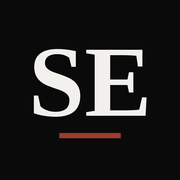
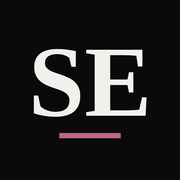
Swap accent color from oxblood to dusty rose (#c1667f)
Two-line change: the whole site already sourced its accent from a
single --accent/--accent-soft CSS variable pair, so every use of it —
nav index numbers, hover states, active tab pills, the cursor-
reactive glow behind the hero nav, the Request Password button
border — picks up the new color automatically.

Also updated the two places the same accent was baked into static
image assets rather than CSS: favicon.svg's underline rule, and the
favicon.ico/apple-touch-icon.png raster fallbacks (regenerated from
the same source script with the new color), so the browser-tab icon
stays visually consistent with the rest of the site.

Verified via Playwright: --accent/--accent-soft compute to #c1667f /
rgba(193, 102, 127, 0.35), the nav index numbers, hover state, active
subnav pill, and password button border all render the new color, and
the full 6-category regression still passes.

Changed region(s): [[0.3056, 0.7222, 0.6944, 0.7778]]

diff --git a/css/style.css b/css/style.css
@@ -1,6 +1,6 @@
 /* ============================================================
    Sivan Eyal — Portfolio
-   Palette: near-black ground, bone text, single oxblood accent.
+   Palette: near-black ground, bone text, single dusty-rose accent.
    Headline: Bodoni Moda (high-contrast, cinematic editorial serif).
    Body: Archivo (neutral grotesk with more character than a system sans).
    ============================================================ */
@@ -11,8 +11,8 @@
   --bone: #f2f0ec;
   --bone-dim: #b9b6ae;
   --bone-faint: #7a7770;
-  --accent: #9c3b2e;        /* muted oxblood red — the single accent */
-  --accent-soft: rgba(156, 59, 46, 0.35);
+  --accent: #c1667f;        /* muted dusty rose — the single accent */
+  --accent-soft: rgba(193, 102, 127, 0.35);
   --line: rgba(242, 240, 236, 0.12);
 
   --font-head: "Bodoni Moda", "Didot", "Times New Roman", serif;
